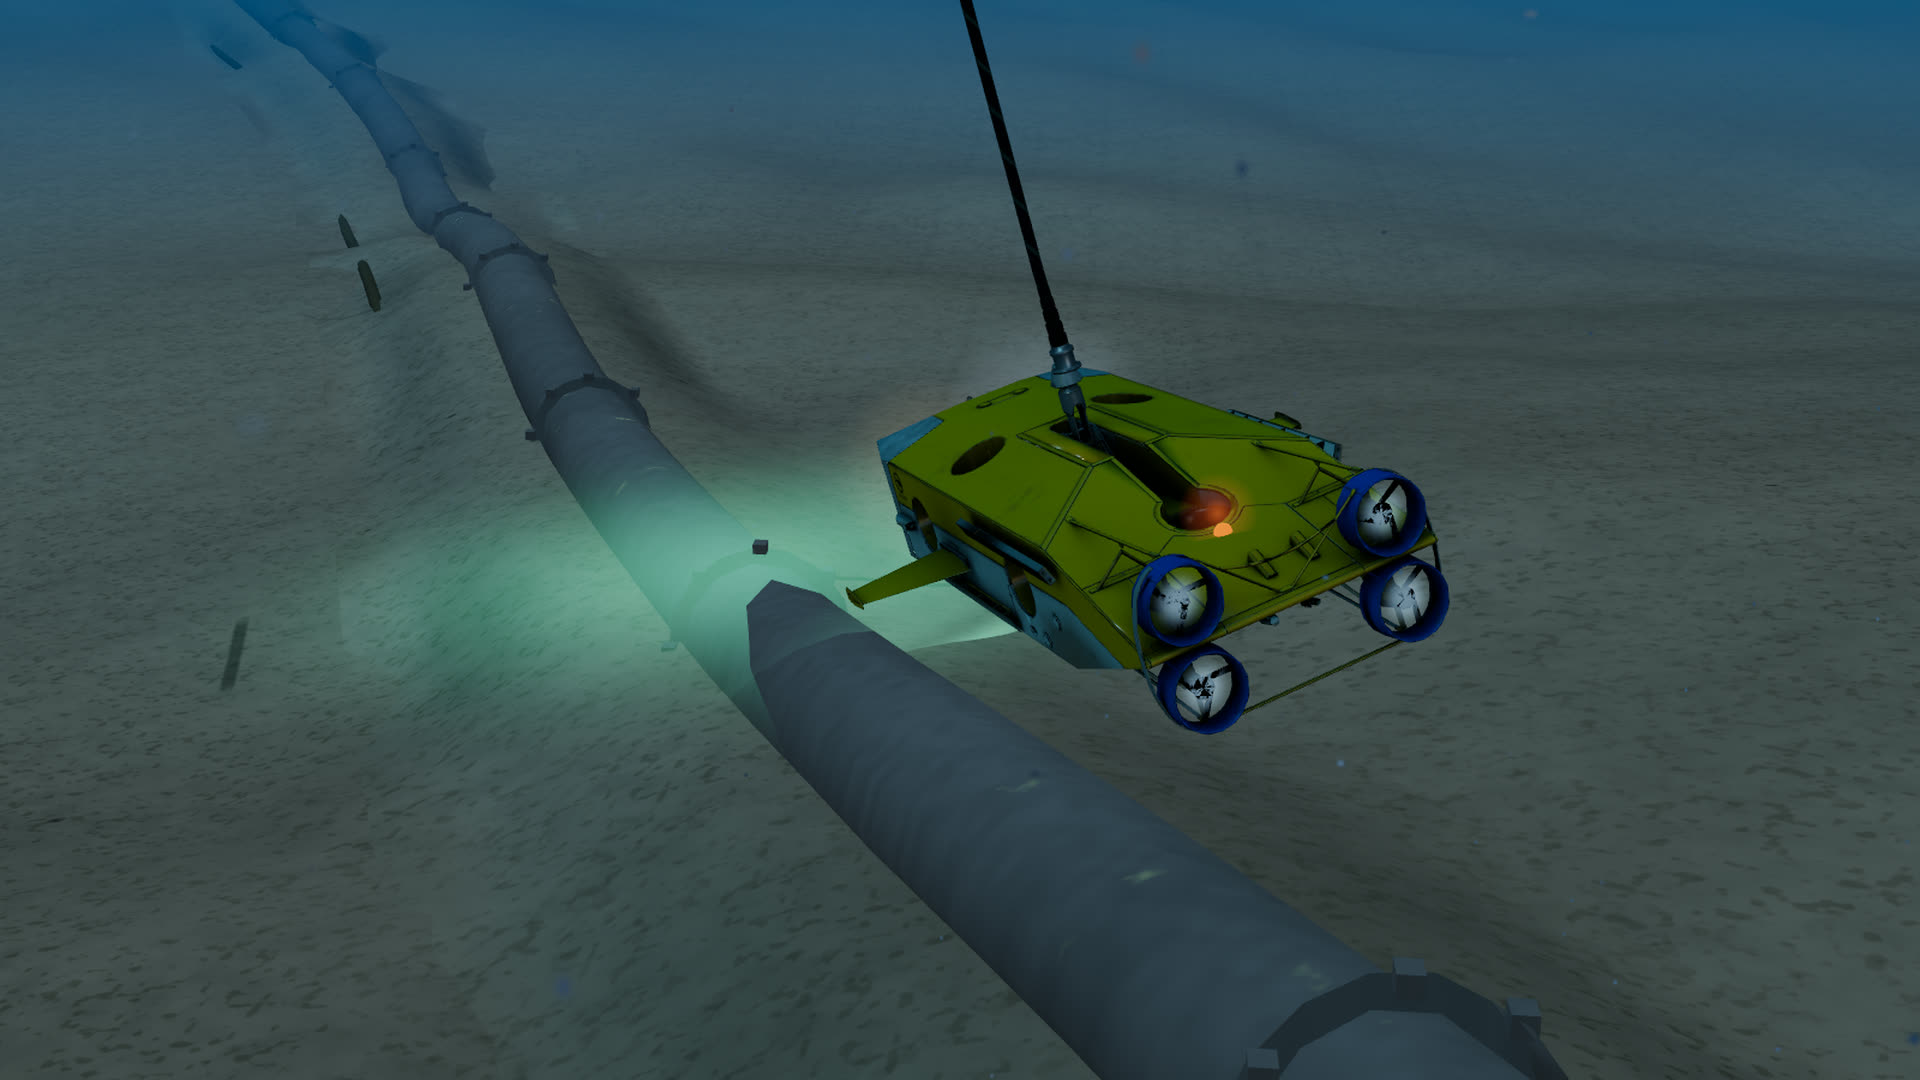
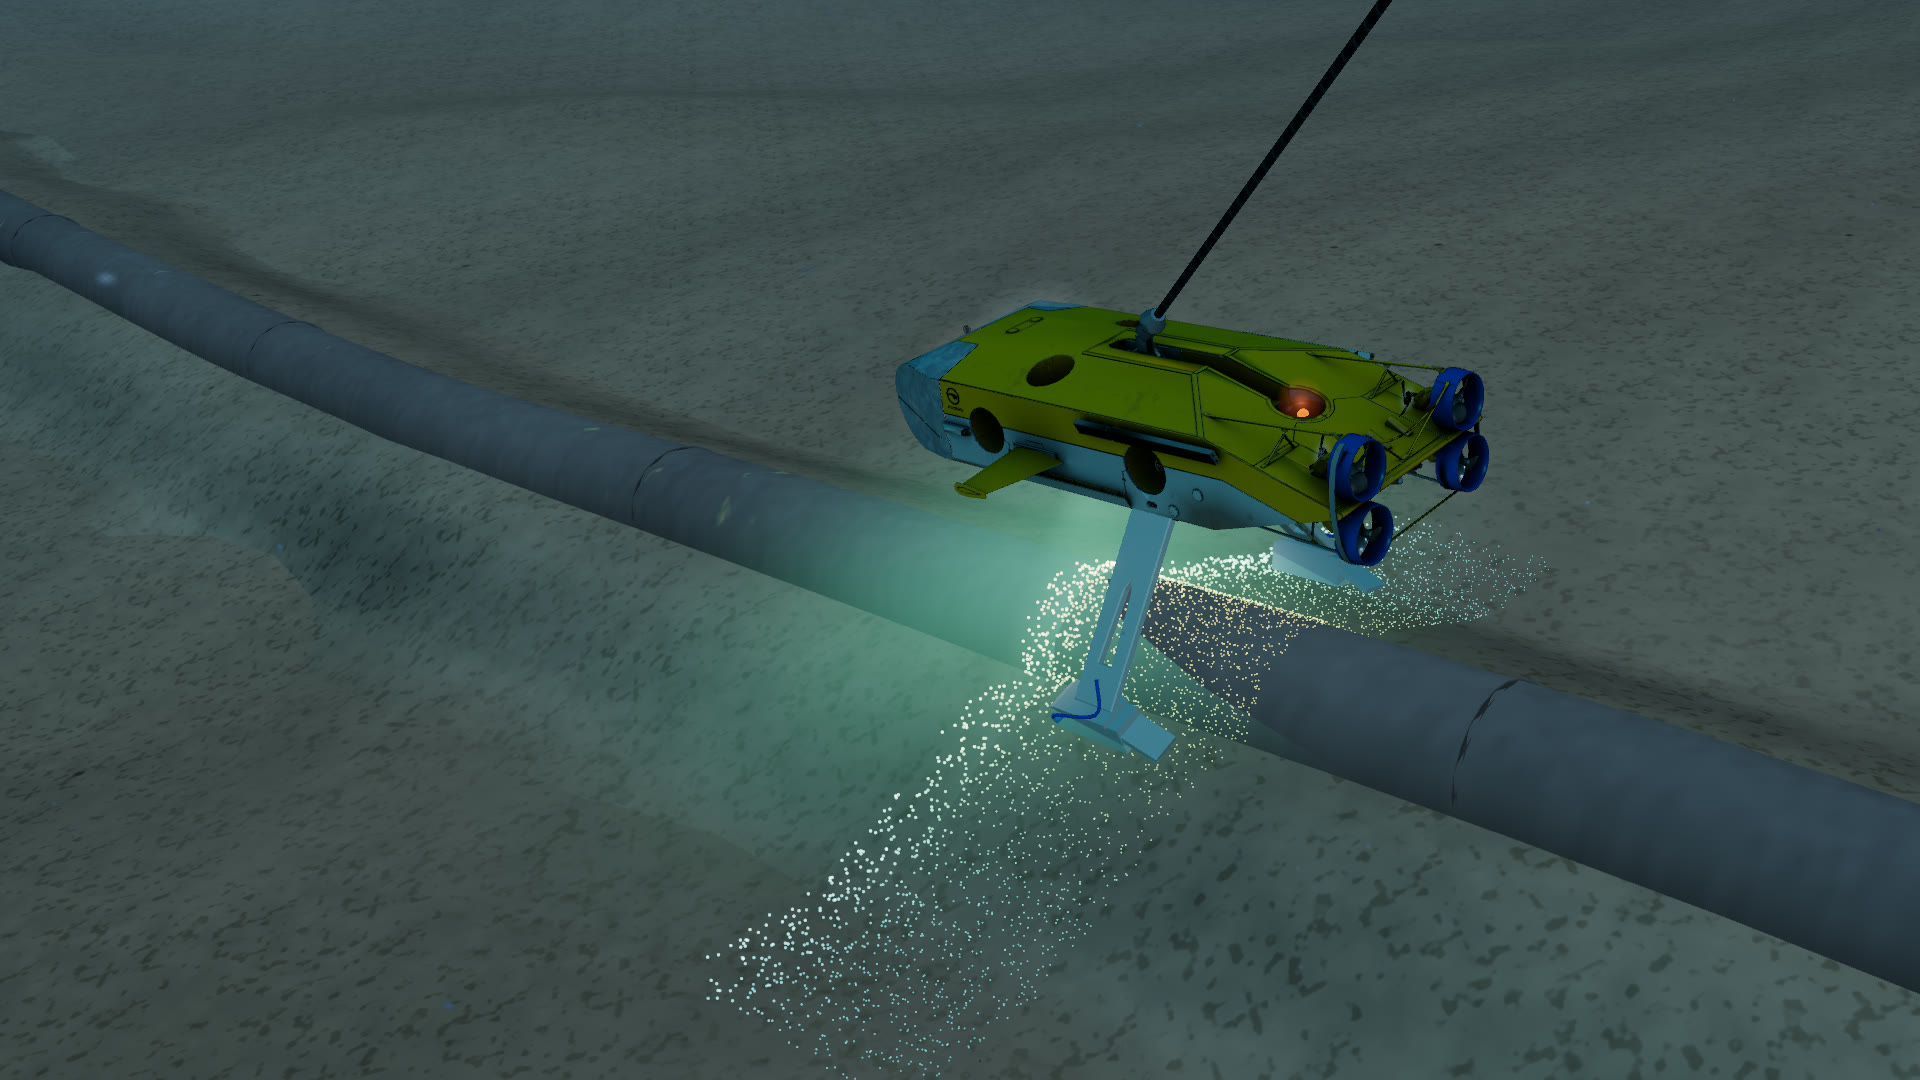
3D World stills re-rendered from the signed-off World v195 (Q188; Ross: "re-render the 3D World stills too")
After the films (Q187), every still on the site taken from the Reach 3D World is made again from reach-world v195 (02977d6), at the same sizes, so the cards and banners crop as before. Two small content changes come with it (below).

WORDPRESS: REPLACE THESE 10 IMAGES (same file names, same sizes; swap in the Media Library)

Explore 3D World page (/3d-world/):
  public/images/world-hero.jpg          1920 x 1080  Page hero image
  public/images/world-step-zones.jpg    1200 x 800   How it works, card 1 (welcome panel)
  public/images/world-step-panel.jpg    1200 x 800   How it works, card 2 (Reach Remote 1's drawer)
  public/images/world-step-tour.jpg     1200 x 800   How it works, card 3 (careers route, Surveyors stop)
  public/images/world-zone-1.jpg        1200 x 675   Zone card 1, Subsea Infrastructure
  public/images/world-zone-2.jpg        1200 x 675   Zone card 2, Oil Field Operations
  public/images/world-zone-3.jpg        1200 x 675   Zone card 3, Offshore Wind & Renewables
  public/images/world-zone-4.jpg        1200 x 675   Zone card 4, Subsea Production & Monitoring

Services overview (/services/), 3D World banner:
  public/images/3d-world-poster.jpg     1920 x 1080  banner poster

Careers (/careers/), "From ship to seabed" 3D World banner:
  public/images/3d-world-careers-poster.jpg  1920 x 1080  banner poster

ALSO CHANGE IN WORDPRESS (2 fields):
  1. Zone card 2 image alt text:
     was: A ZeeROV and its tether cage beside a leg of a steel jacket platform
[…]

diff --git a/src/data/world.ts b/src/data/world.ts
@@ -53,7 +53,7 @@ export const worldZones: WorldZone[] = [
     label: 'Oil Field Operations',
     blurb: 'A steel jacket platform at the end of the pipeline. An uncrewed surface vessel flies an electric ROV at one of the jacket legs.',
     assets: ['Reach Remote 1', 'ZeeROV 1'],
-    image: { src: 'images/world-zone-2.jpg', alt: 'A ZeeROV and its tether cage beside a leg of a steel jacket platform' },
+    image: { src: 'images/world-zone-2.jpg', alt: 'A ZeeROV on its tether beside a leg of a steel jacket platform' },
   },
   {
     slug: 'wind',

diff --git a/docs/00-questions.md b/docs/00-questions.md
@@ -14,6 +14,17 @@ Context: Ross: the EU label on Reach Remote 3 & 4 should be "Funded by the Europ
 
 ## Answered log
 
+### Q188. 3D World stills re-rendered from v195 (24 Nov 2026)
+
+Ross: "re-render the 3D World stills too", after the films (Q187). All ten site images taken from the World are made again from v195 at the same sizes.
+
+- [x] Explore 3D World zone cards (1200 × 675): `world-zone-1` (Vigor shot at 27.4 s), `world-zone-2` (launch shot at 31.1 s; the TMS now waits higher up, so the ZeeROV is alone at the jacket leg and the alt text says so), `world-zone-3` (wind shot at 10 s), `world-zone-4` (gWatch shot at 7 s)
+- [x] Explore 3D World How it works (1200 × 800): `world-step-zones` (welcome panel), `world-step-panel` (Reach Remote 1's drawer), `world-step-tour` (careers route, stop 2 Surveyors), captured with `pipeline/pageshot.mjs` at 1440 × 876, cropped 1314 × 876 from the right
+- [x] Explore 3D World hero (`world-hero`, 1920 × 1080): Reach Remote 1 on the right with the v183 rig behind it (the old still showed the rig model v183 replaced). Focal point 0.6 → 0.72 so the vessel stays whole on phones
+- [x] Services 3D World banner (`3d-world-poster`, 1920 × 1080): the Surveyor on its pipeline from behind and above, now with its camera arms and scan, above the zone list
+- [x] Careers 3D World banner (`3d-world-careers-poster`, 1920 × 1080): the careers route's Surveyors stop, interface hidden, 3200 wide cropped from x 480 so the ROV sits clear of the copy
+- [ ] WordPress: replace these ten files in the Media Library (same names), change the Zone 2 alt text and the Explore 3D World hero focal point
+
 ### Q187. Site films re-rendered from the signed-off 3D World v195 (24 Nov 2026)
 
 Reach signed off the 3D World as it stands (v195). Ross: "Just got the go ahead to re render the video files for the web". The two films made from the World were re-rendered from v195 with the same shots, cut, sizes and timing, and their posters were made again to match.
